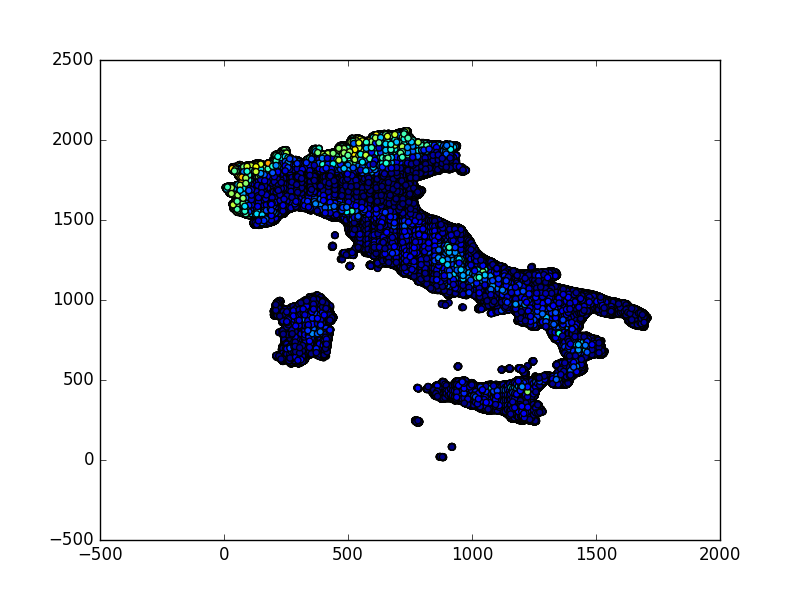
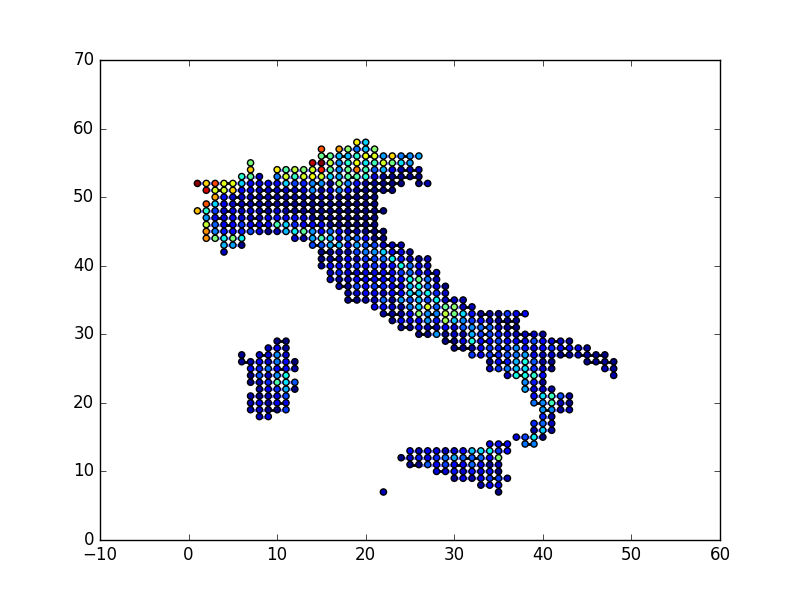
shows graph of ndw

diff --git a/gridItalia.py b/gridItalia.py
@@ -1,3 +1,4 @@
+
 #Grid for italy
 import networkx as nx
 import getline as gl
@@ -7,6 +8,7 @@ import matplotlib.pyplot as plt
 from operator import itemgetter
 
 DEBUG = 0
+SHOW = 0
 HEIGHT=6
 WIDTH=5
 DELTAS=75
@@ -55,7 +57,6 @@ class mapInfo():
 					values=listOfValues[ind]
 				else:
 					break
-		print listOfValues
 		return listOfValues
 
 	def getallHeights(self, grid, coarsnes):
@@ -108,16 +109,17 @@ def topologyInit(N):
 		if DEBUG:
 		   print G[edge[0]][edge[1]]['weight']
 		#print str(edge) + "\t" + str(G[edge[0]][edge[1]]['weight']) + str(G.node[edge[0]]['height']) + "\t" + str(G.node[edge[1]]['height'])
-	print len(G.edges())
+	print "the number of edges in this simularion will be" + str(len(G.edges()))
 	for x in G.nodes():
 		nodeColor.append(int(G.node[x]['height']))
-	elarge=[(u,v) for (u,v,d) in G.edges(data=True) if d['weight'] >=0.05]
-	esmall=[(u,v) for (u,v,d) in G.edges(data=True) if d['weight'] <0.05]
-	nx.draw_networkx_edges(G, pos={i:i for i in G.nodes()}, edgelist=elarge, width=2)
-	nx.draw_networkx_edges(G, pos={i:i for i in G.nodes()}, edgelist=esmall, width=2, alpha=0.5,edge_color='b',style='dashed')
-	nx.draw_networkx_nodes(G, pos={i:i for i in G.nodes()}, node_color=nodeColor, node_cmap=plt.cm.gist_earth, node_size=20)
-	plt.savefig("the_grid.png") # save as png
-	plt.show() # display
+	if SHOW == 1:
+		elarge=[(u,v) for (u,v,d) in G.edges(data=True) if d['weight'] >=0.05]
+		esmall=[(u,v) for (u,v,d) in G.edges(data=True) if d['weight'] <0.05]
+		nx.draw_networkx_edges(G, pos={i:i for i in G.nodes()}, edgelist=elarge, width=2)
+		nx.draw_networkx_edges(G, pos={i:i for i in G.nodes()}, edgelist=esmall, width=2, alpha=0.5,edge_color='b',style='dashed')
+		nx.draw_networkx_nodes(G, pos={i:i for i in G.nodes()}, node_color=nodeColor, node_cmap=plt.cm.gist_earth, node_size=20)
+		plt.savefig("the_grid.png") # save as png
+		plt.show() # display
 	return G
 
 def main():

diff --git a/NG.py b/NG.py
@@ -8,8 +8,8 @@ from Game import Play
 #random.seed();
 
 print "# GAME:"
-folk = Folk(1000000,GRIDONMAP)
-Play(folk,50000)
+folk = Folk(1000,GRIDONMAP)
+Play(folk,500000)
 
 print folk
 

diff --git a/Game.py b/Game.py
@@ -47,4 +47,5 @@ def Play(f, T=1000000):
             break
     plt.figure(figsize = (16,8))
     figure = plt.scatter(time, different_words)
+    plt.show()
         
